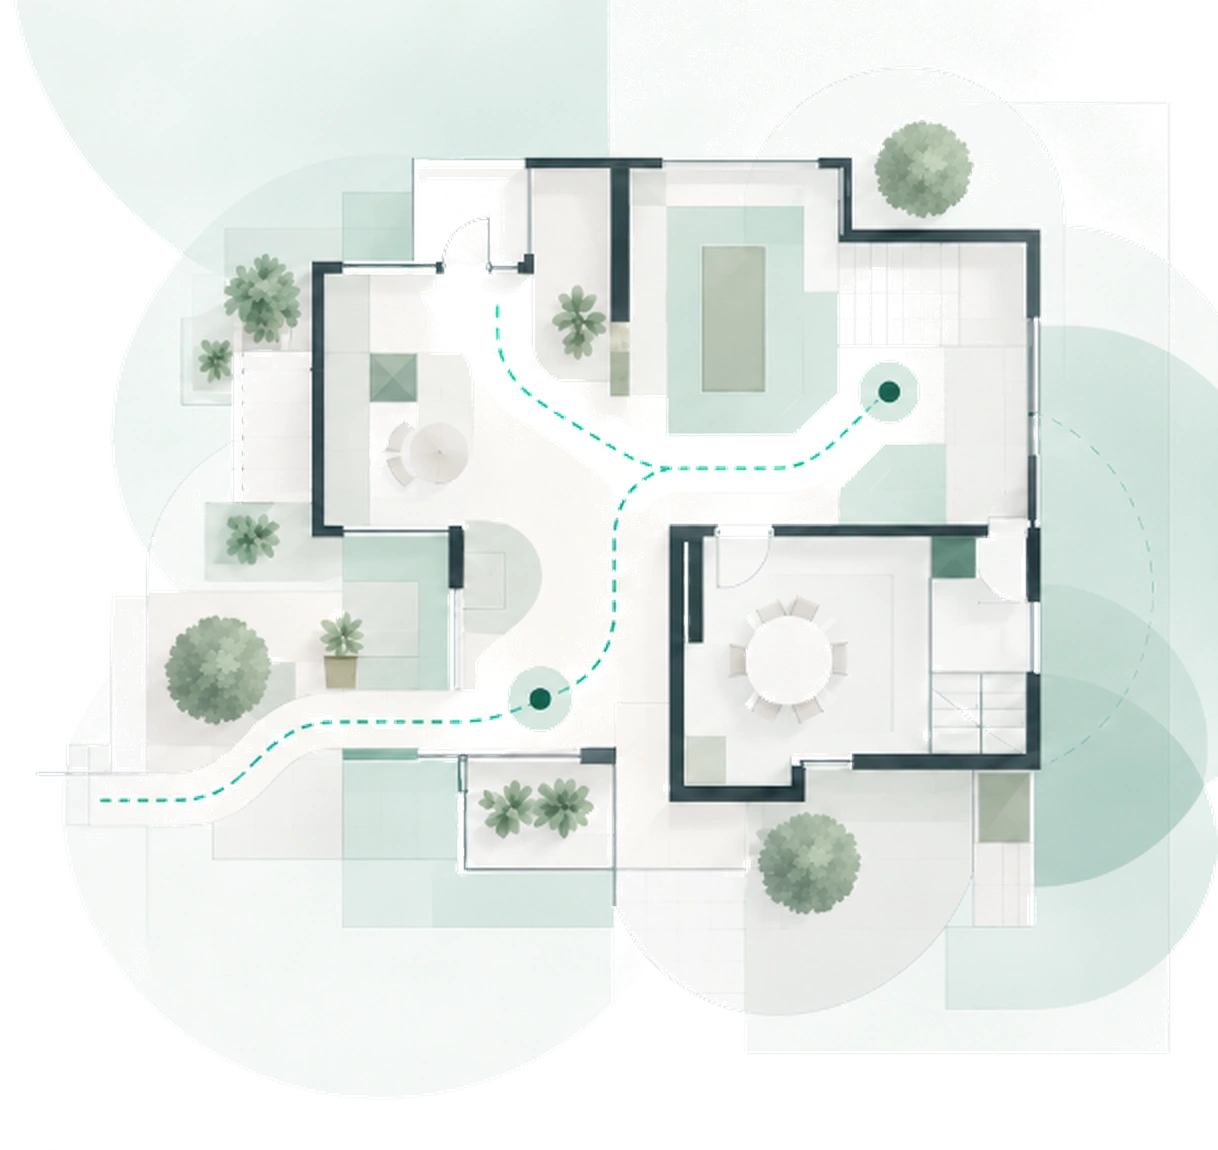
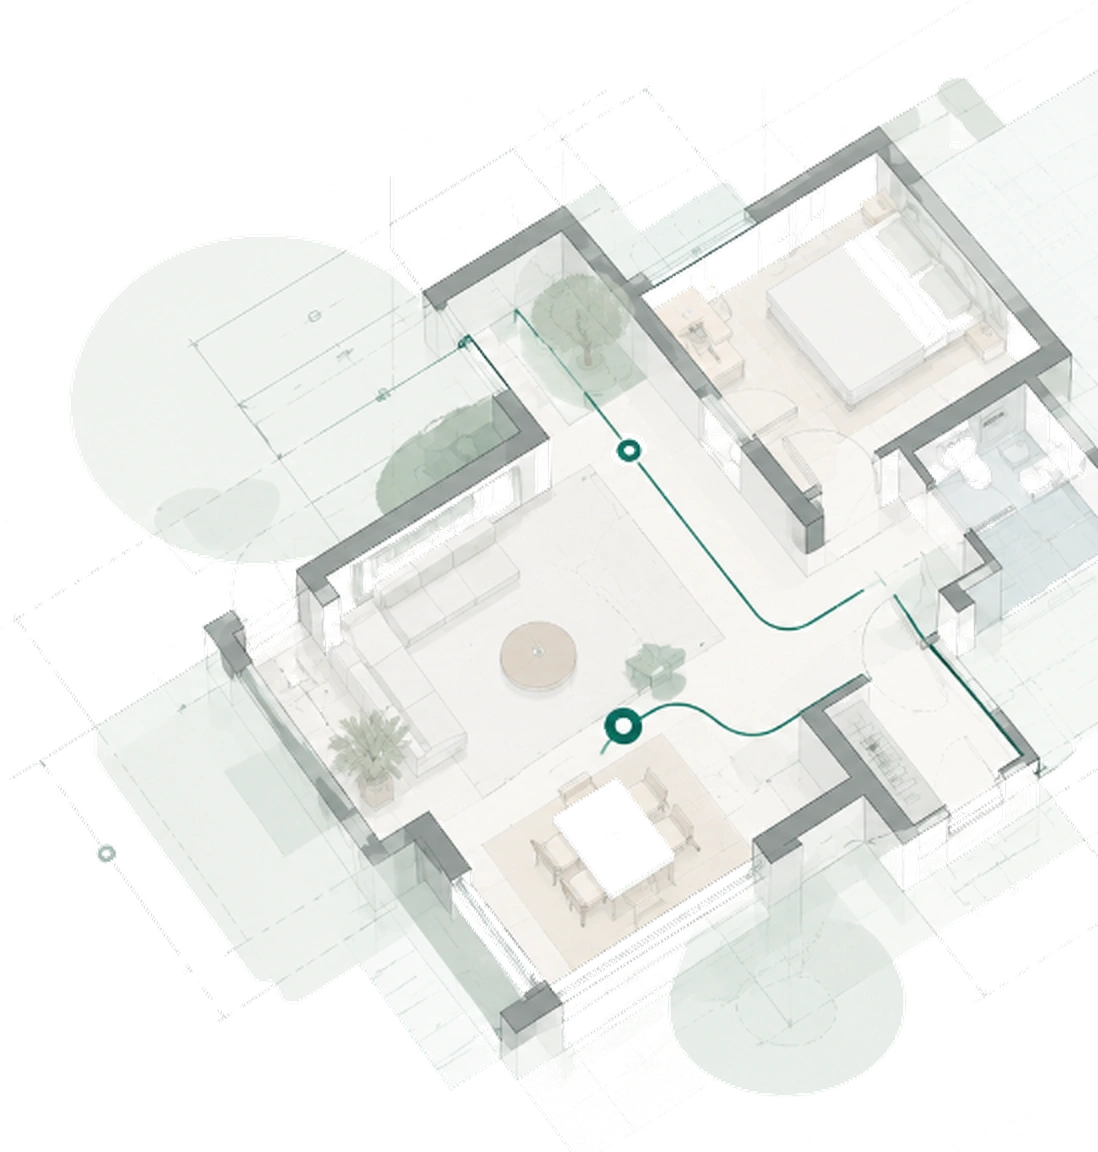
fix(landing): update to isometric 3D architectural floorplan design

diff --git a/src/app/page.tsx b/src/app/page.tsx
@@ -8,8 +8,8 @@ import decorArc from "../../public/landing/decor-arc-bottom-left.png";
 export default function HomePage() {
   return (
     <div className="relative min-h-screen w-full bg-white text-[#17252B] overflow-x-hidden flex flex-col justify-between">
-      {/* Decorative ambient bottom-left architectural arc */}
-      <div className="pointer-events-none absolute bottom-0 left-0 w-[220px] sm:w-[300px] select-none z-0">
+      {/* Decorative ambient bottom-left architectural arc and dimension line */}
+      <div className="pointer-events-none absolute bottom-0 left-0 w-[280px] sm:w-[360px] lg:w-[440px] select-none z-0">
         <Image
           src={decorArc}
           alt=""
@@ -19,7 +19,7 @@ export default function HomePage() {
       </div>
 
       {/* Top Header with Brand Logo */}
-      <header className="w-full px-6 pt-8 sm:px-12 sm:pt-10 lg:px-16 lg:pt-12 z-20">
+      <header className="w-full px-8 sm:px-14 lg:px-20 xl:px-24 pt-10 sm:pt-12 lg:pt-14 z-20">
         <div className="max-w-7xl mx-auto flex items-center">
           <Link
             href="/"
@@ -35,7 +35,7 @@ export default function HomePage() {
       {/* Main Hero Section */}
       <main
         id="main-content"
-        className="w-full flex-1 flex items-center px-6 sm:px-12 lg:px-16 py-6 sm:py-10 z-10"
+        className="w-full flex-1 flex items-center px-8 sm:px-14 lg:px-20 xl:px-24 py-6 sm:py-10 z-10"
         role="main"
       >
         <div className="w-full max-w-7xl mx-auto grid grid-cols-1 items-center gap-10 lg:grid-cols-12 lg:gap-8">
@@ -43,13 +43,13 @@ export default function HomePage() {
           <div className="lg:col-span-5 flex flex-col items-start z-10">
             <h1
               id="hero-title"
-              className="text-4xl sm:text-5xl xl:text-6xl font-bold tracking-tight leading-[1.08]"
+              className="text-4xl sm:text-5xl lg:text-5xl xl:text-[56px] font-bold tracking-tight leading-[1.08]"
             >
               <span className="block text-[#17252B]">Design safer</span>
               <span className="block text-[#0B514B] mt-1 whitespace-nowrap">movement paths</span>
             </h1>
 
-            <p className="mt-6 text-base sm:text-lg leading-relaxed text-[#647078] max-w-md">
+            <p className="mt-5 sm:mt-6 text-base sm:text-lg leading-relaxed text-[#647078] max-w-md">
               Review floorplans for accessibility and safety with clear, actionable spatial insight.
             </p>
 
@@ -65,9 +65,9 @@ export default function HomePage() {
             </div>
           </div>
 
-          {/* Right Column: Abstract Architectural Floorplan Illustration */}
+          {/* Right Column: Isometric Architectural Floorplan Illustration */}
           <div className="lg:col-span-7 flex items-center justify-center lg:justify-end">
-            <div className="relative w-full max-w-[640px] lg:max-w-none">
+            <div className="relative w-full max-w-[620px] lg:max-w-none">
               <Image
                 src={abstractFloorplan}
                 alt="Abstract architectural floorplan illustration with movement paths"
